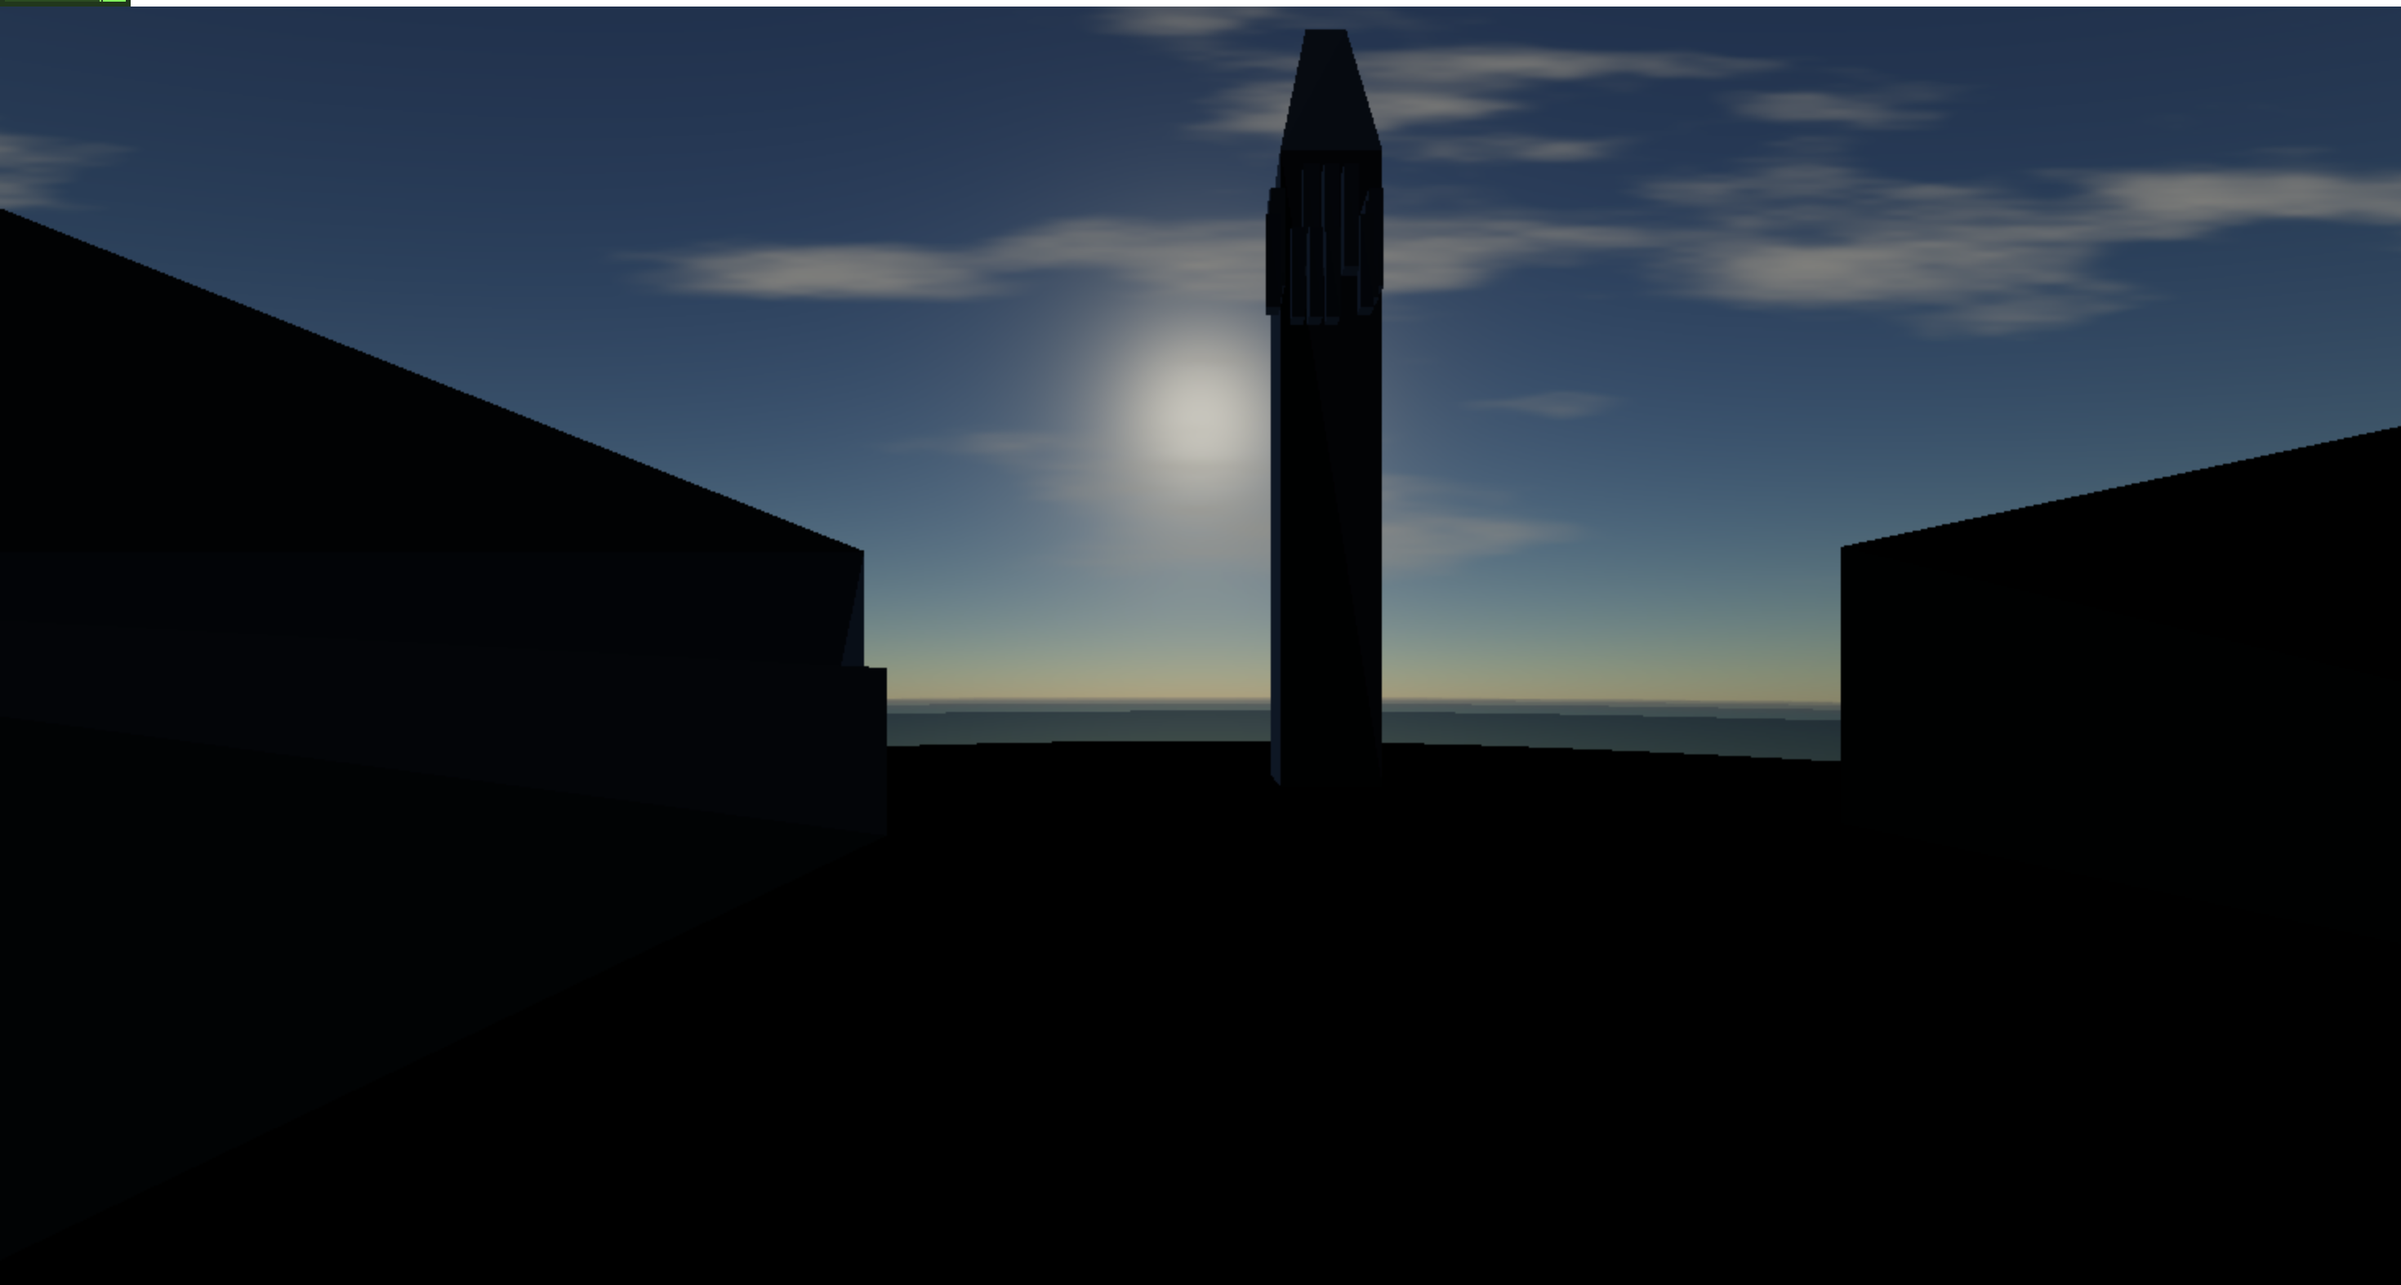
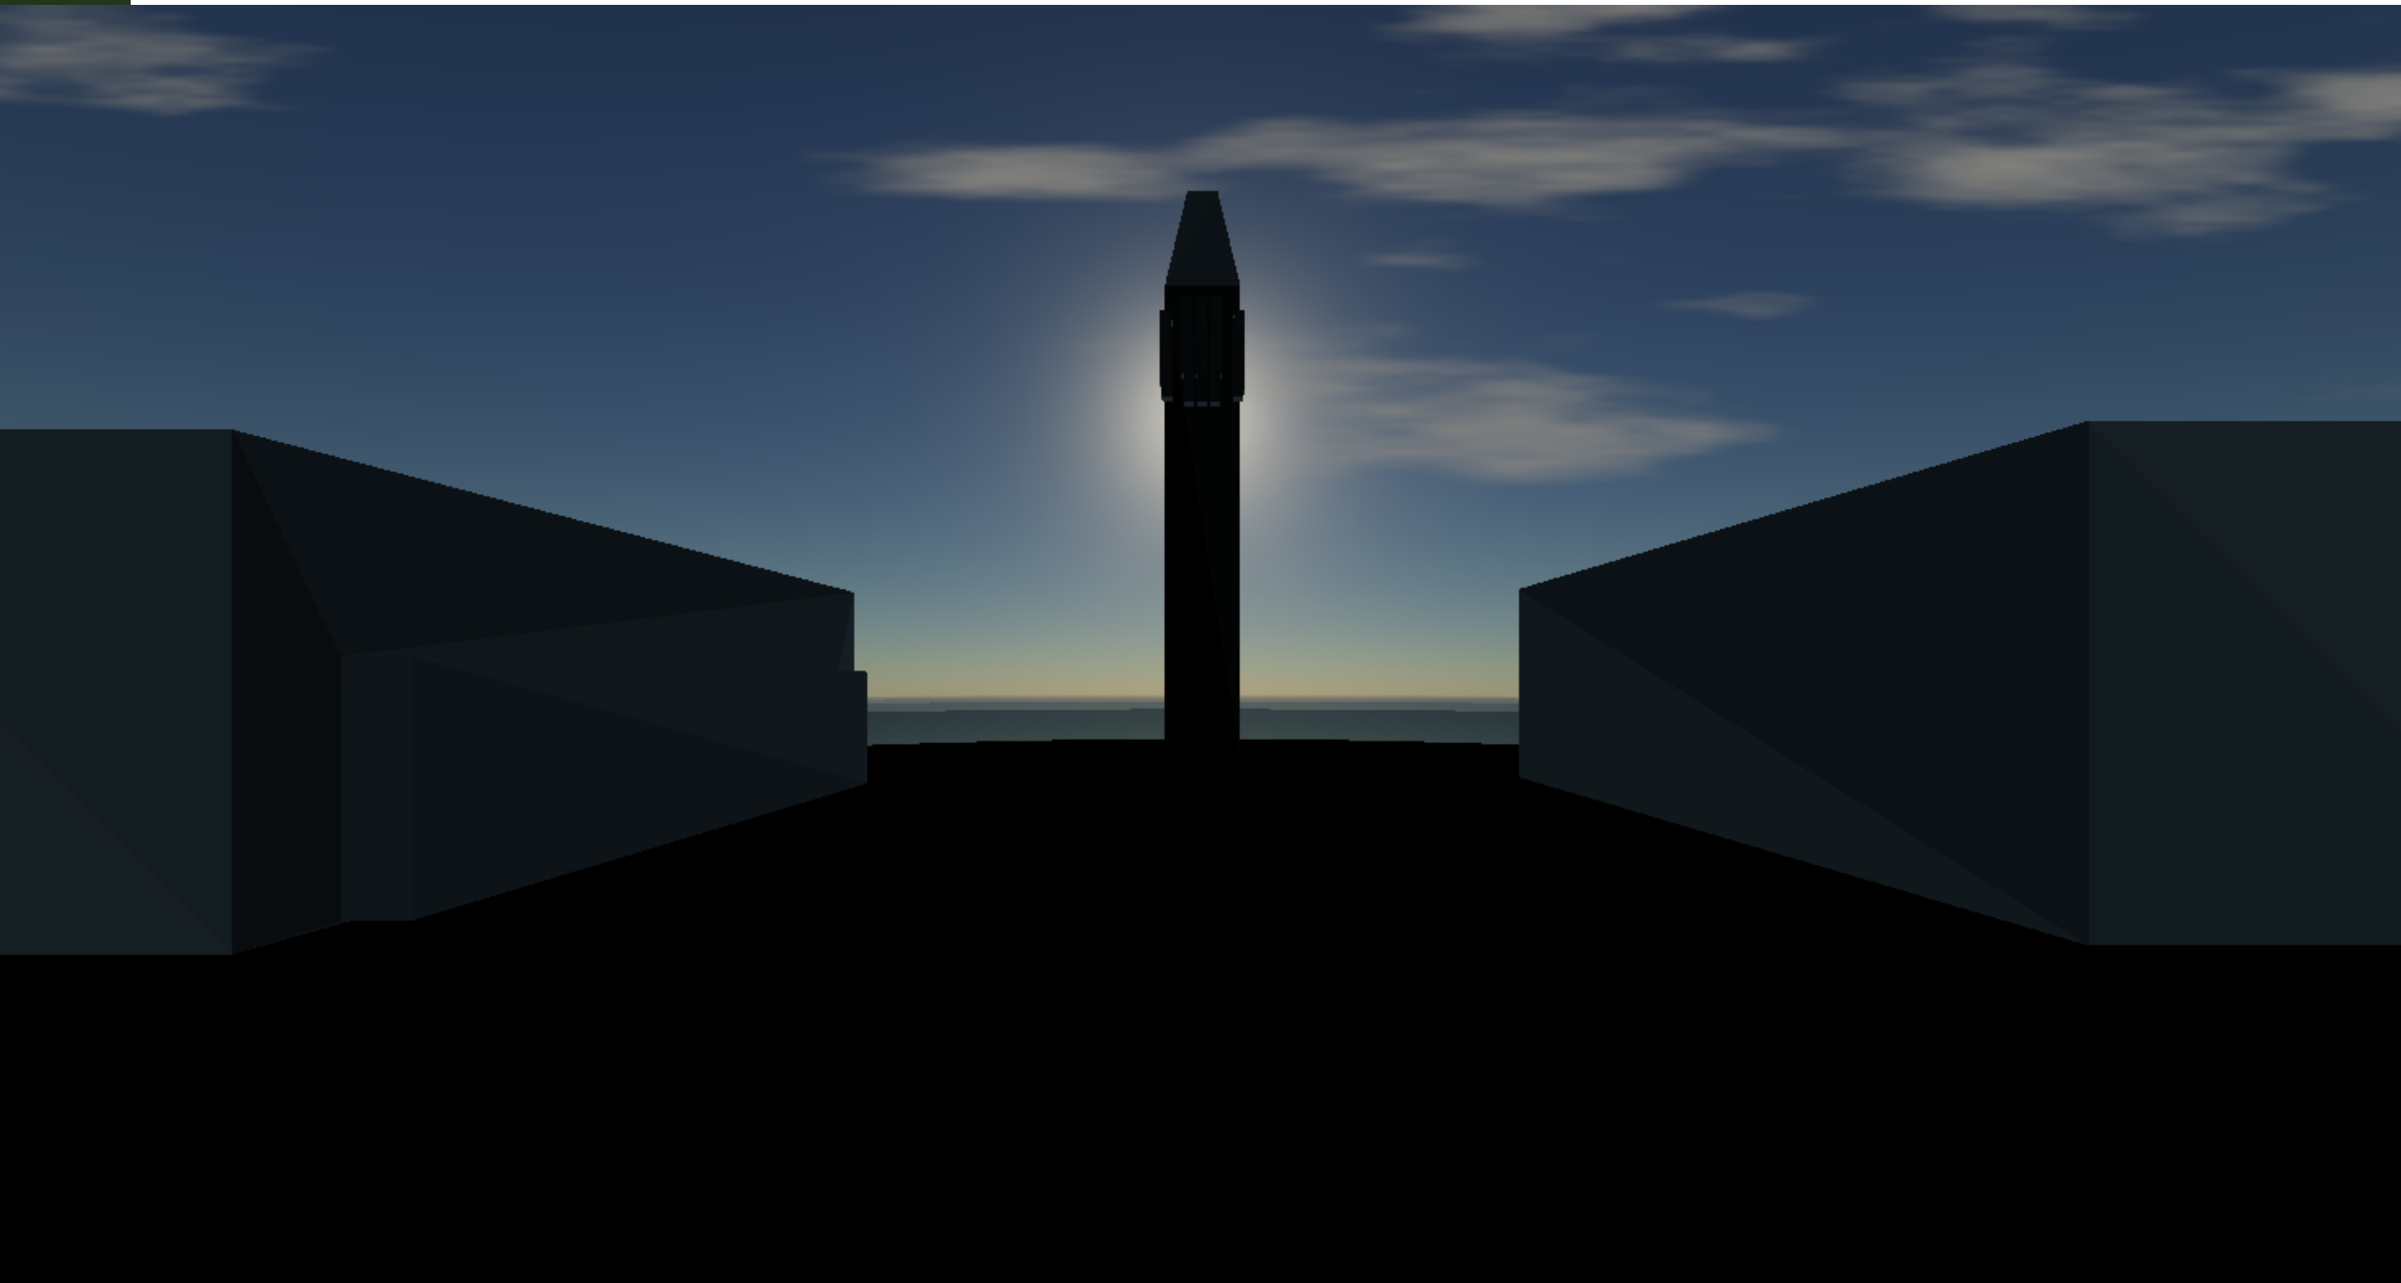
edits

Changed region(s): [[0.2786, 0.0, 1.0, 0.7481], [0.0, 0.0935, 0.3714, 0.7481], [0.0, 0.0, 0.1238, 0.0935]]

diff --git a/cs184/final/final/final_writeup.html b/cs184/final/final/final_writeup.html
@@ -63,12 +63,12 @@
         <div style="display: flex; flex-direction: column; align-items: center;">
             <table style="width: 100%; text-align: center; border-collapse: collapse;">
                 <td style="text-align: center;">
-                    <img src="diagram1.png" width="400px"/>
+                    <img src="diagram_1.png" width="400px"/>
                     <figcaption>Diagram<br><br> </figcaption>
                 </td>
             </table>
         </div>
-        <p>
+        <p></p>
 		For each pixel, we wish to calculate the total luminance, which we can represent with this equation. X represents a point along the ray that we're integrating over.
 
 		$$L(P_c,P_a) = \int_{P_c}^{P_a} T(P_c, X) L_{sun}(X) ds$$
@@ -102,7 +102,6 @@
 		$$\text{SkyColor}(P_c, P_a) = \text{SkyColor}_R(P_c, P_a) + \text{SkyColor}_M(P_c, P_a)$$
 
 		In our final code, we also take a few algebraic shortcuts that allow us to reduce repeated computation.
-        </p>
         <p>
             In the process of implementing our sunset simulator since the milestone, we noticed some bugs in our implementation. In our implementation of the sunset during the milestone, we saw that there would be artifacts when the sun was near the horizon, where the sun would be overly large, and light would "stick" to the sun as it moved. To fix this issue, we realized we had to normalize the color of the sun, which made the simulation look much more realistic. Below is a comparison of the two implementations:
         </p>
@@ -122,9 +121,9 @@
 
 
         <h3>Cloud Rendering</h3>
-        <p>Our shader generates dynamic, realistic clouds using fractal Brownian motion (fBm) to create detailed, evolving noise patterns. The process begins by computing a directional ray from the camera for each pixel and checking if it intersects the Earth, such that clouds are only rendered if the view ray doesn't hit the ground. </p>
-		<p>To simulate cloud motion, a time-dependent drift is added to the noise input, and the resulting coordinates are rotated to align the cloud layer at an angle, mimicking atmospheric perspective. The fBm function, built from multiple layers of 2D value noise, produces smooth, organic variations that resemble natural cloud structures. This raw noise value is transformed into a soft cloud mask using a smoothstep threshold, which controls where clouds appear based on density. </p>
-		<p>The mask is further modulated by altitude, fading clouds out near the horizon, and is limited to a specific area on the screen to keep clouds constrained to the sky. Lighting is then applied by mixing a sunlit cloud color with the sky's atmospheric radiance, and the final cloud color is blended into the scene based on cloud opacity and solar elevation, resulting in a soft, drifting cloudscape that evolves over time. </p>
+		<p>Using fractal Brownian motion to create detailed, natural patterns, our shader generates dynamic, realistic clouds. The process begins by computing a directional ray from the camera for each pixel and checking if it intersects the Earth, such that clouds are only rendered if the view ray doesn't hit the ground or other objects.</p>
+		<p></p>To simulate motion, time-dependent drift is added to the cloud, and the resulting coordinates are projected to align the cloud layer at an angle, mimicking atmospheric perspective. The fractal Brownian motion function, built from multiple layers of 2D value noise, produces smooth, natural variations that resemble natural cloud structures. This raw noise value is transformed into a soft cloud mask using a smoothstep threshold, which controls where clouds appear based on density.</p>
+		<p>The mask is further modified by altitude, fading clouds out near the horizon, and is limited to a specific area on the screen to keep clouds constrained to the sky. Lighting is then applied by mixing a sunlit cloud color with the sky's color, and the final cloud color is blended into the scene based on cloud opacity and solar elevation, resulting in a sky of fluffy clouds.</p>
 		<p>To give the illusion of depth, we rotate the vertical plane that the clouds are on by 80 degrees into the screen, such that it gives perspective to the viewer. This was accomplished by creating a rotation matrix and projecting onto it to determine the position at which we should sample.</p>
 		<p>We also have a few tunable knobs in our cloud implementation, particularly around the density of clouds(controlled by the lower and upper bound of the inputs to the smoothstep used to calculate the cloud mask, which controls the density of the clouds). The smoothstep function is used to turn raw FBM noise - which is continuous and wavy - into discrete, cloud-like regions with soft, fuzzy edges.</p>
         <p>We finally have 2 points to determine where the upper right and lower left bounds of the “cloudy region” is. In the final implementation, we render clouds across the entire width, and go from half way up to the top, ie, our bottom left coordinate would be (0.5, 0) and the top right coordinate would be (1, 1). We use this to only display clouds into certain locations, avoiding conflict with empty sky.</p>
@@ -191,6 +190,19 @@
             </table>
         </div>
         <h3>Sunset Simulation with Foreground Geometry</h3>
+        <div style="display: flex; flex-direction: column; align-items: center;">
+			<table style="width: 100%; text-align: center; border-collapse: collapse;">
+                <td style="text-align: center;">
+                    <img src="campanile.png" width="400px"/>
+                    <figcaption>Realistic Berkeley Campus in the Foreground<br><br> </figcaption>
+                </td>
+                <td style="text-align: center;">
+                    <img src="cube.png" width="400px"/>
+                    <figcaption>Cube in the foreground<br><br> </figcaption>
+                </td>
+			  </tr>
+			</table>
+		</div>
         <h3>Sunset Simulation with Clouds</h3>
         <p>TODO: insert different clouds n shi</p>
         <div style="display: flex; flex-direction: column; align-items: center;">
@@ -207,60 +219,90 @@
 				    <img src="mie2rayleigh20.png" width="400px"/>
 				    <figcaption>Rayleigh scattering + Mie scattering with sun brightness 20 and Mie effective sun brightness 2</figcaption>
 				</td>
-			  </tr>
 			</table>
 		</div>
 
         <h3>Temperature and Relative Humidity</h3>
-        <p>Our shader renders the sky and environment based on physically accurate parameters. For example, Rayleigh scattering is the phenomenon that makes the sky appear blue, and our Rayleigh scattering coefficients are ddynamically computed depending on temperature, pressure, and relatie</p>
-        <p>Our shader generates dynamic, realistic clouds using fractal Brownian motion (fBm) to create detailed, evolving noise patterns. The process begins by computing a directional ray from the camera for each pixel and checking if it intersects the Earth, such that clouds are only rendered if the view ray doesn't hit the ground. </p>
-		<p>To simulate cloud motion, a time-dependent drift is added to the noise input, and the resulting coordinates are rotated to align the cloud layer at an angle, mimicking atmospheric perspective. The fBm function, built from multiple layers of 2D value noise, produces smooth, organic variations that resemble natural cloud structures. This raw noise value is transformed into a soft cloud mask using a smoothstep threshold, which controls where clouds appear based on density. </p>
-		<p>The mask is further modulated by altitude, fading clouds out near the horizon, and is limited to a specific area on the screen to keep clouds constrained to the sky. Lighting is then applied by mixing a sunlit cloud color with the sky's atmospheric radiance, and the final cloud color is blended into the scene based on cloud opacity and solar elevation, resulting in a soft, drifting cloudscape that evolves over time. </p>
-		<p>To give the illusion of depth, we rotate the vertical plane that the clouds are on by 80 degrees into the screen, such that it gives perspective to the viewer. This was accomplished by creating a rotation matrix and projecting onto it to determine the position at which we should sample.</p>
-		<p>We also have a few tunable knobs in our cloud implementation, particularly around the density of clouds(controlled by the lower and upper bound of the inputs to the smoothstep used to calculate the cloud mask, which controls the density of the clouds). The smoothstep function is used to turn raw FBM noise - which is continuous and wavy - into discrete, cloud-like regions with soft, fuzzy edges.</p>
-        <p>We finally have 2 points to determine where the upper right and lower left bounds of the “cloudy region” is. In the final implementation, we render clouds across the entire width, and go from half way up to the top, ie, our bottom left coordinate would be (0.5, 0) and the top right coordinate would be (1, 1). We use this to only display clouds into certain locations, avoiding conflict with empty sky.</p>
-		
-		<h3>Clouds with varied box size</h3>
+        <p>Our shader renders the sky and environment based on physically accurate parameters.</p>
+        <p>For example, Rayleigh scattering is the phenomenon that makes the sky appear blue, and our Rayleigh scattering coefficients are dynamically computed depending on light wavelength, temperature, and relative humidity.</p>
+        <p>The parameters we have exposed are cloudiness from 0.0 to 1.0 (see above), temperature in Celsius, and relative humidity from 0.0 to 1.0</p>
+
+        <h3>Equations</h3>
         <div style="display: flex; flex-direction: column; align-items: center;">
                 <table style="width: 100%; text-align: center; border-collapse: collapse;">
             <td style="text-align: center;">
-                <img src="clouds_2_4.png" width="400px"/>
-                <figcaption>cloud with corners (.2, .2) and (.8, .8)<br><br> </figcaption>
+                <img src="n_tp.png" width="400px"/>
+                <figcaption>Equation for air's index of refraction at given temperature and pressure<br><br> </figcaption>
             </td>
             <td style="text-align: center;">
-				<img src="clouds-4x6.png" width="400px"/>
-                <figcaption>cloud with corners (.4, .4) and (.6, .6)<br><br> </figcaption>
+				<img src="n_s.png" width="400px"/>
+                <figcaption>Equation for air's index of refraction at standard pressure and temperature given wavenumber of light<br><br> </figcaption>
+            </td>
+                  </tr>
+                </table>
+            <td style="text-align: center;">
+				<img src="rho.png" width="400px"/>
+                <figcaption>Equation for air density based on temperature and humidity<br><br> </figcaption>
             </td>
                   </tr>
                 </table>
             </div>
-			
-		<h3>Clouds with varied cloud densities</h3>
-			<div style="display: flex; flex-direction: column; align-items: center;">
-					<table style="width: 100%; text-align: center; border-collapse: collapse;">
-				<td style="text-align: center;">
-					<img src="clouds_2_4.png" width="400px"/>
-					<figcaption>cloud smoothstep(.2, .4)<br><br> </figcaption>
-				</td>
-				<td style="text-align: center;">
-					<img src="clouds_6_8.png" width="400px"/>
-					<figcaption>cloud smoothstep(.6, .8)<br><br> </figcaption>
-				</td>
-				<td style="text-align: center;">
-					<img src="clouds_8_1.png" width="400px"/>
-					<figcaption>cloud smoothstep(.8, 1)<br><br> </figcaption>
-				</td>
-					  </tr>
-					</table>
-				</div>
+
+        <p>A higher relative humidity increases the density and consequently, molecular density of the air.</body>p>
+            <p>This decreases the Rayleigh scattering coefficients, so a more humid day will be more washed out and a drier day will be more visibly crisp.</p>
+                
+            <h3>Skies with varied relative humidities</h3>
+                <div style="display: flex; flex-direction: column; align-items: center;">
+                        <table style="width: 100%; text-align: center; border-collapse: collapse;">
+                    <td style="text-align: center;">
+                        <img src="humidity_0.png" width="400px"/>
+                        <figcaption>A clear sky at 15 degrees Celsius with 0% relative humidity (clearer)<br><br> </figcaption>
+                    </td>
+                    <td style="text-align: center;">
+                        <img src="humidity_05.png" width="400px"/>
+                        <figcaption>A clear sky at 15 degrees Celsius with 50% relative humidity<br><br> </figcaption>
+                    </td>
+                    <td style="text-align: center;">
+                        <img src="humidity_1.png" width="400px"/>
+                        <figcaption>A clear sky at 15 degrees Celsius with 100% relative humidity (hazier)<br><br> </figcaption>
+                    </td>
+                            </tr>
+                        </table>
+                    </div>
+
+        <p>A lower temperature increases the density of the air, which decreases the Rayleigh scattering coefficients, making the sky lighter and yellower. The opposite is also true, with a hot day making the sky's colors appear bluer and darker.</p>
+        <p>This is the opposite to what happens in real life. This is because cooler temperatures are strongly associated with lower humidity, which makes the sky clearer and bluer overall. The opposite is true as well, so hotter days tend to be a bit hazier, with warmer colors in the sky.</p>
+		
+		<h3>Skies with varied temperature</h3>
+        <div style="display: flex; flex-direction: column; align-items: center;">
+                <table style="width: 100%; text-align: center; border-collapse: collapse;">
+            <td style="text-align: center;">
+                <img src="temperature_15.png" width="400px"/>
+                <figcaption>Clear sky at 15 degrees Celsius<br><br> </figcaption>
+            </td>
+            <td style="text-align: center;">
+				<img src="temperature_-15.png" width="400px"/>
+                <figcaption>Clear sky at -15 degrees Celsius (the sky is lighter/yellower)<br><br> </figcaption>
+            </td>
+                  </tr>
+                </table>
+            <td style="text-align: center;">
+				<img src="temperature_45.png" width="400px"/>
+                <figcaption>Clear sky at 45 degress Celsius (the sky is bluer/darker)<br><br> </figcaption>
+            </td>
+                  </tr>
+                </table>
+            </div>
 
         <h2>References</h2>
 		<ul>
-			<li><a href=""></a></li>
+			<li><a href="https://www.engineeringtoolbox.com/density-air-d_680.html">https://www.engineeringtoolbox.com/density-air-d_680.html</a></li>
             <li><a href="https://www.scratchapixel.com/lessons/procedural-generation-virtual-worlds/simulating-sky/simulating-colors-of-the-sky.html">https://www.scratchapixel.com/lessons/procedural-generation-virtual-worlds/simulating-sky/simulating-colors-of-the-sky.html</a></li>
+            <li><a href="http://jupiter.chem.uoa.gr/thanost/papers/papers4/Metrol_30(1993)155.pdf">http://jupiter.chem.uoa.gr/thanost/papers/papers4/Metrol_30(1993)155.pdf</a></li>
+			<li><a href="https://cdn.instructables.com/ORIG/FIF/0BT5/I7CCDOSF/FIF0BT5I7CCDOSF.pdf">https://cdn.instructables.com/ORIG/FIF/0BT5/I7CCDOSF/FIF0BT5I7CCDOSF.pdf</a></li>
+			<li><a href="https://opg.optica.org/ao/fulltext.cfm?uri=ao-57-26-7559&id=396859">https://opg.optica.org/ao/fulltext.cfm?uri=ao-57-26-7559&id=396859</a></li>
 			<li><a href="https://thebookofshaders.com/13/">https://thebookofshaders.com/13/</a></li>
 		</ul>
-        TODO: add more references.
 
 
         
